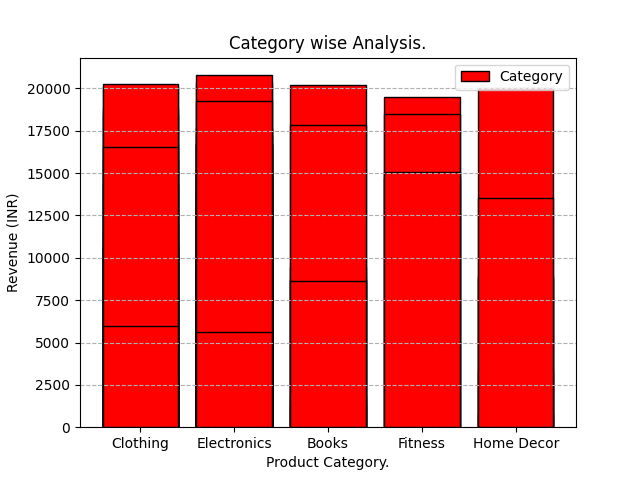
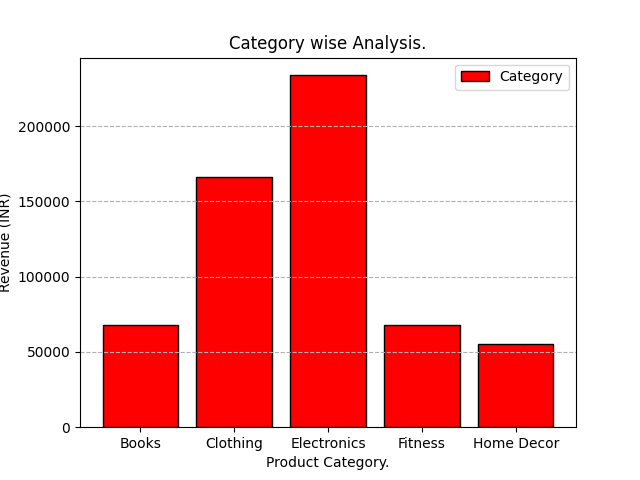
Fix some Bugs.

diff --git a/01-sales-analysis/src/04.data_visualization.py b/01-sales-analysis/src/04.data_visualization.py
@@ -1,56 +1,3 @@
-# import pandas as pd 
-# import matplotlib.pyplot as plt
-# import seaborn as sns
-
-# df = pd.read_csv("data/Clean_sales.csv")
-# # print(df.columns)
-
-
-# total_sales = df['Final Amount'].sum()
-# average_sales = df['Final Amount'].mean()
-# highest_sales = df['Final Amount'].max()
-# lowest_sales = df['Final Amount'].min()
-
-# df['OrderDate'] = pd.to_datetime(df['OrderDate'])
-# df = df.sort_values('OrderDate')
-# monthly_date = df.groupby(df['OrderDate'].dt.to_period('M'))['Final Amount'].sum().reset_index()
-# monthly_date['OrderDate'] = monthly_date['OrderDate'].astype(str)
-
-# cust_revn = df.groupby('CustomerID')['Final Amount'].sum().reset_index()
-
-# cat_revn = df.groupby('Category')['Final Amount'].sum().reset_index()
-
-# top_cust = df.groupby('CustomerID')['Final Amount'].sum().reset_index()
-
-# fig, axes = plt.subplots(3,1, figsize=(10,8))
-# fig.suptitle("Sales Performance Analysis Dashboard.", fontsize=14, fontweight='bold', y=0.98)
-
-# sns.lineplot(ax=axes[0], data=monthly_date, x='OrderDate', y='Final Amount')
-# axes[0].set_title('Monthly Revenue Trend', fontsize=10, fontweight='bold')
-# axes[0].set_xlabel('Months')
-# axes[0].set_ylabel('Revenue')
-# axes[0].tick_params(axis='x', rotation=45)
-
-
-# sns.barplot(ax=axes[1], data=cat_revn, x='Category', y='Final Amount', palette='viridis')
-# axes[1].set_title('Category wise Revenue (BAR CHART)')
-# axes[1].set_xlabel('Categories')
-# axes[1].set_ylabel('Revenues')
-# axes[1].tick_params(rotation=40)
-
-
-# sns.histplot(ax=axes[2], data=cust_revn, x='CustomerID', y='Final Amount')
-# axes[2].set_title("Customer wise Revenue")
-# axes[2].set_xlabel('Customer')
-# axes[2].set_ylabel('Revenue')
-# axes[2].tick_params(rotation=40)
-
-# plt.tight_layout()
-# plt.show()
-
-
-
-
 import pandas as pd
 import matplotlib.pyplot as plt
 from pyparsing import Char
@@ -60,11 +7,9 @@ df = pd.read_csv('data/Clean_sales.csv')
 print(df.columns)
 
 
-# Category Revenue
+# Category Revenue(for 1 Chart)
 category_revenue = df.groupby('Category')['Final Amount'].sum().reset_index()
 
-# Payment Mode
-payment_mode = df['Payment Mode'].value_counts()
 
 # Monthly Trend
 df['OrderDate'] = pd.to_datetime(df['OrderDate'])
@@ -72,19 +17,18 @@ df = df.sort_values('OrderDate')
 monthly_date = df.groupby(df['OrderDate'].dt.to_period('M'))['Final Amount'].sum().reset_index()
 monthly_date['OrderDate'] = monthly_date['OrderDate'].astype(str)
 
-# Customer Revenue
-customer_revn = df.groupby('CustomerID')['Final Amount'].sum().reset_index()
-
-# Category wise Discount
-category_discount = df.groupby('Category')['Discount'].sum().reset_index()
-
 
 
 
 # 1. Bar Chart: Category Revenue
-category = df['Category']
-revenue = df['Final Amount']
-plt.bar(category, revenue, label='Category', color='red', edgecolor='black')
+cat_revn = df.groupby('Category')['Final Amount'].sum().reset_index()
+plt.bar(
+    cat_revn['Category'], 
+    cat_revn['Final Amount'], 
+    label='Category', 
+    color='red', 
+    edgecolor='black'
+)
 plt.title('Category wise Analysis.')
 plt.xlabel('Product Category.')
 plt.ylabel('Revenue (INR)')
@@ -95,7 +39,14 @@ plt.show()
 
 
 # 2. Monthly Revenue Trend
-plt.plot(monthly_date['OrderDate'], monthly_date['Final Amount'], label='Months', color='orange')
+plt.plot(
+    monthly_date['OrderDate'], 
+    monthly_date['Final Amount'], 
+    label='Months', 
+    color='orange', 
+    marker='o', 
+    markersize=8
+)
 plt.title('Monthly Revenue Trend. (LINE)')
 plt.xlabel('Months Name')
 plt.ylabel('Revenue')
@@ -106,58 +57,186 @@ plt.savefig('visuals/02 Monthly Revenue Trend (Line).')
 plt.show()
 
 
-plt.pie(df['Category'], autopct='%1.1f%%', labels=df['Category'])
+# 3. Revenue share by category 
+plt.pie(
+    category_revenue['Final Amount'], 
+    autopct='%1.1f%%', 
+    labels=category_revenue['Category'],
+    startangle=90
+)
 plt.title('Revenue Share by Category.(PIE)')
 plt.legend()
+plt.xticks(rotation=40, ha='right')
+plt.tight_layout()
 plt.savefig('visuals/03 Revenue sahre by categpry.')
+plt.show()
+
+
+# 4. Top 5 Customer by Revenue(Bar);
+plt.figure(figsize=(8, 5))
+customer_revn = df.groupby('CustomerID')['Final Amount'].sum().reset_index().sort_values(by='Final Amount', ascending=False).head(5)
+plt.bar(
+    customer_revn['CustomerID'], 
+    customer_revn['Final Amount'], 
+    color='orange', 
+    edgecolor='black'
+)
+plt.title("Top 5 Customer.")
+plt.xlabel('Revenue')
+plt.ylabel('Revenue ID')
+plt.tight_layout()
+plt.grid(True)
+plt.xticks(rotation=30)
+plt.savefig('visuals/04 Top 5 Customer')
+plt.show()
+plt.close() 
+
+
+
+# 5. Quantity Sold by Category (BAR)
+plt.figure(figsize=(8, 5))
+quantity_sold = df.groupby('Category')['Quantity'].sum().reset_index()
+plt.bar(
+    quantity_sold['Category'], 
+    quantity_sold['Quantity'], 
+    label='Category', 
+    color='pink', 
+    edgecolor='black'
+)
+plt.title('Quantity Sold by Category. (BAR)')
+plt.xlabel('Category')
+plt.ylabel('Quantity')
+plt.grid(True, axis='y', linestyle='--')
+plt.xticks(rotation=30)
+plt.tight_layout()
+plt.savefig('visuals/05 Quantity sold.')
+plt.show()
+plt.close() 
+
+
+
+# 06. Order Amount Distribution
+fig, (ax_box, ax_hist) = plt.subplots(2, sharex=True, gridspec_kw={'height_ratios':(.15,.85)}, figsize=(8,6))
+ax_box.boxplot(df['Final Amount'], vert=False)
+ax_box.set_title('Order Amount Distribution Analysis')
+ax_box.axis('off')
+
+ax_hist.hist(
+    df['Final Amount'], 
+    bins=20, 
+    color='skyblue', 
+    edgecolor='black'
+)
+ax_hist.set_xlabel('Order Amount (INR)')
+ax_hist.set_ylabel('Number of orders')
+ax_hist.grid(True)
+plt.tight_layout()
+plt.savefig('visuals/06 Order Amount Distribution')
 plt.show()
 
 
 
 
-fig, axes = plt.subplots(nrows=2 , ncols=3, figsize=(10,8))
+
+fig, axes = plt.subplots(nrows=2 , ncols=3, figsize=(13,10))
 
 
 # 1. Bar chart: Category Revenue
-axes[0,0].bar(category_revenue['Category'], category_revenue['Final Amount'], color='red', label='Category Revenue')
+axes[0,0].bar(
+    category_revenue['Category'], 
+    category_revenue['Final Amount'], 
+    color='red', label='Category Revenue',  
+    edgecolor='black'
+)
 axes[0,0].set_title('Category Wise Revenue')
 axes[0,0].set_xlabel('Category', fontsize=8)
 axes[0,0].set_ylabel('Revenue')
 axes[0,0].tick_params(axis='x', rotation=30  )
 
-# 2. Pie Chart: Payment Mode
-# axes[0,1].pie(payment_mode, autopct='%1.1f%%', startangle=90, labels=payment_mode.index)
-# axes[0,1].set_title('Payment Mode')
+# 2. Pie Chart: Category wise Revenue
 category_sales = df.groupby('Category')['Amount_INR'].sum().reset_index()
-axes[0,1].pie(category_sales['Amount_INR'], labels=category_sales['Category'], autopct= '%1.1f%%', startangle=90)
+axes[0,1].pie(
+    category_sales['Amount_INR'], 
+    labels=category_sales['Category'], 
+    autopct= '%1.1f%%', 
+    startangle=90
+)
 axes[0,1].set_title('Category Wise Revenue')
 
-# 3. Line Char
-# Monthly Sales Trend
-axes[0,2].plot(monthly_date['OrderDate'], monthly_date['Final Amount'], marker='x', markersize=4, color='Blue' )
+# 3. Line Char: Monthly Sales Trend
+axes[0,2].plot(
+    monthly_date['OrderDate'], 
+    monthly_date['Final Amount'], 
+    marker='o', 
+    markersize=6, 
+    color='Blue' 
+)
 axes[0,2].set_title('Monthly Sales Trend')
 axes[0,2].set_xlabel('Months')
 axes[0,2].set_ylabel('Revenue')
 axes[0,2].tick_params(axis='x', rotation=30)
 
 
-# 4. Histogram
-# Customer Revenue
-axes[1,0].hist(df['CustomerID'].astype(str), bins=10, edgecolor='black')
+# 4. Histogram: Customer Revenue
+axes[1,0].hist(
+    df['CustomerID'].astype(str), 
+    bins=10,
+    edgecolor='black'
+)
 axes[1,0].set_title('Customer Revenue')
 axes[1,0].set_ylabel('Customer Count')
 axes[1,0].set_xlabel('Customer ID')
 axes[1,0].tick_params(axis='x', rotation=30, labelsize=8)
 
 
-# 5. Scattor plot
-# Category wise discount
-axes[1,1].scatter(category_discount['Category'], category_discount['Discount'], color='orange')
+# 5. Scattor plot: Category wise discount
+category_discount = df.groupby('Category')['Discount'].sum().reset_index()
+axes[1,1].scatter(
+    category_discount['Category'], 
+    category_discount['Discount'], 
+    color='orange',
+    marker='o',
+    markersize=4
+)
 axes[1,1].set_title('Category Wise Discount.')
 axes[1,1].set_ylabel('Discount INR')
 axes[1,1].set_xlabel('Category')
 axes[1,1].tick_params(axis='x', rotation=30)
 
 
-plt.tight_layout()
+ax_qa = axes[1,2]
+ax_qa.axis('off')
+
+top_cat = category_revenue.sort_values(by='Final Amount', ascending=False)
+top_cust = customer_revn.iloc[0]['CustomerID']
+total_sales = df['Final Amount'].sum()
+
+qa_text = (
+    'BUSINESS INSIGHTS & Q&A\n'
+    '--------------------------\n\n'
+    'Q1: Which category drives the most revenue?\n'
+    f'Ans: {top_cat} is our top performer.\n\n'
+    
+     "Q2: Who is our most valuable customer?\n"
+    f"Ans: {top_cust} generated the highest sales.\n\n"
+    
+    "Q3: What is the total business revenue?\n"
+    f"Ans: INR {total_sales:,.2f}\n\n"
+    
+    "Recommendation:\n"
+    f"Focus marketing budgets on {top_cat}\n"
+    "and give loyalty rewards to top clients."
+)
+
+ax_qa.text(0.01, 0.95, qa_text, fontsize=9.5, verticalalignment='top', 
+           fontfamily='sans-serif', color='#1a1a1a',
+           bbox=dict(boxstyle='round,pad=1', facecolor='#f4f6f9', edgecolor='#ccc'))
+
+
+
+
+plt.tight_layout(pad=3.0)
+fig.subplots_adjust(bottom=0.12)
+
+plt.savefig('visuals/DashBoard')
 plt.show()